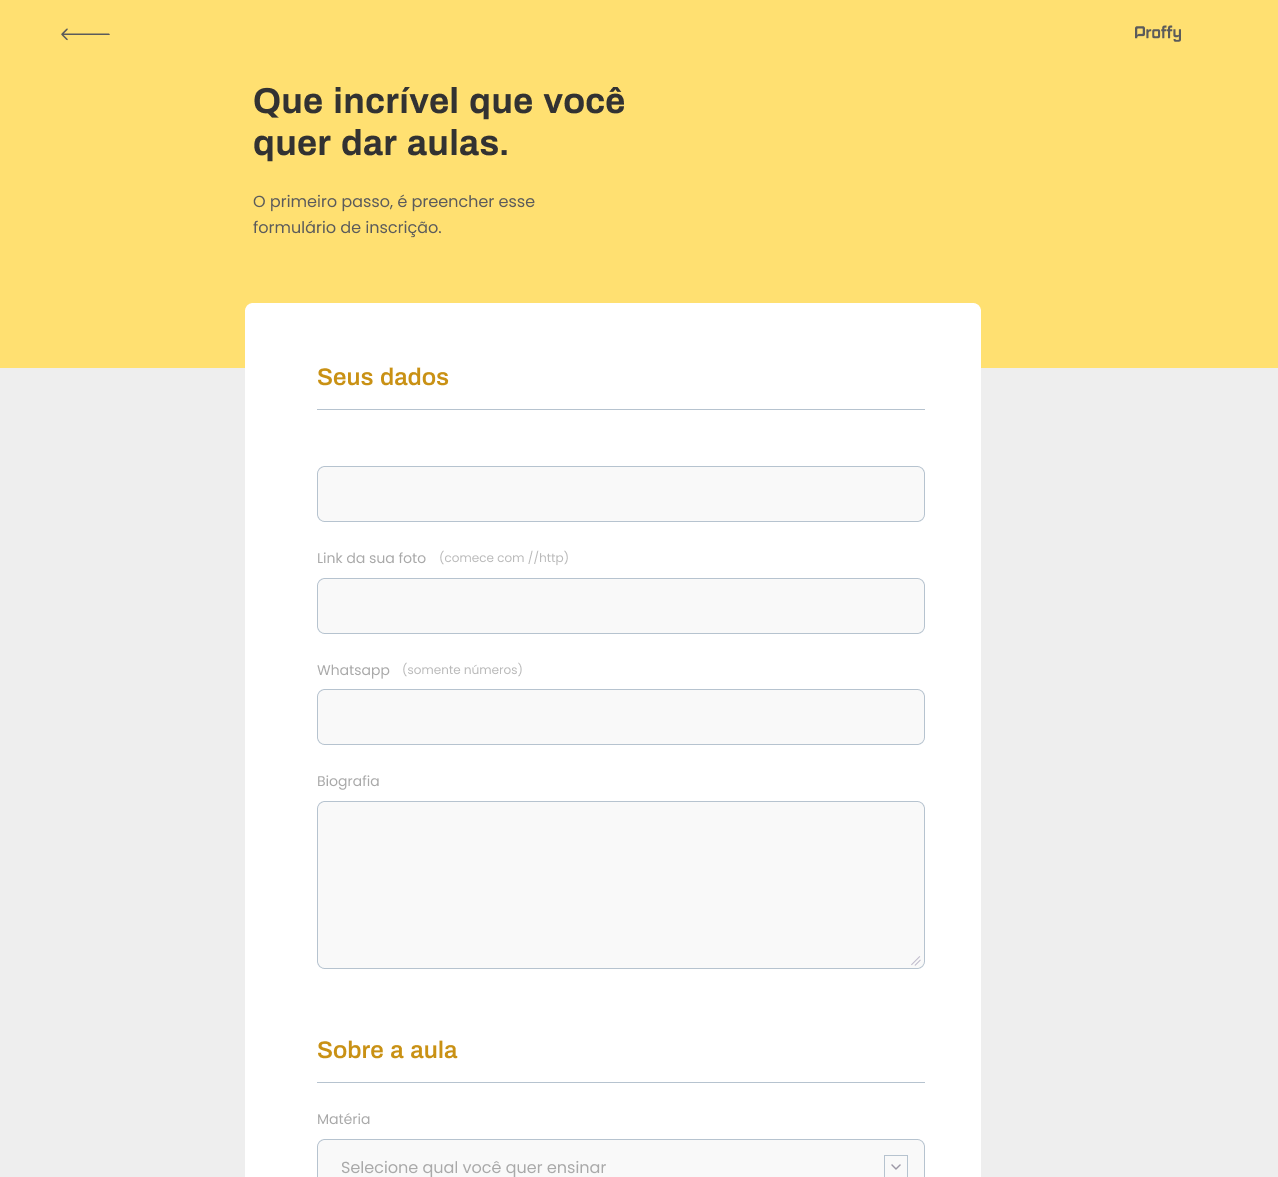
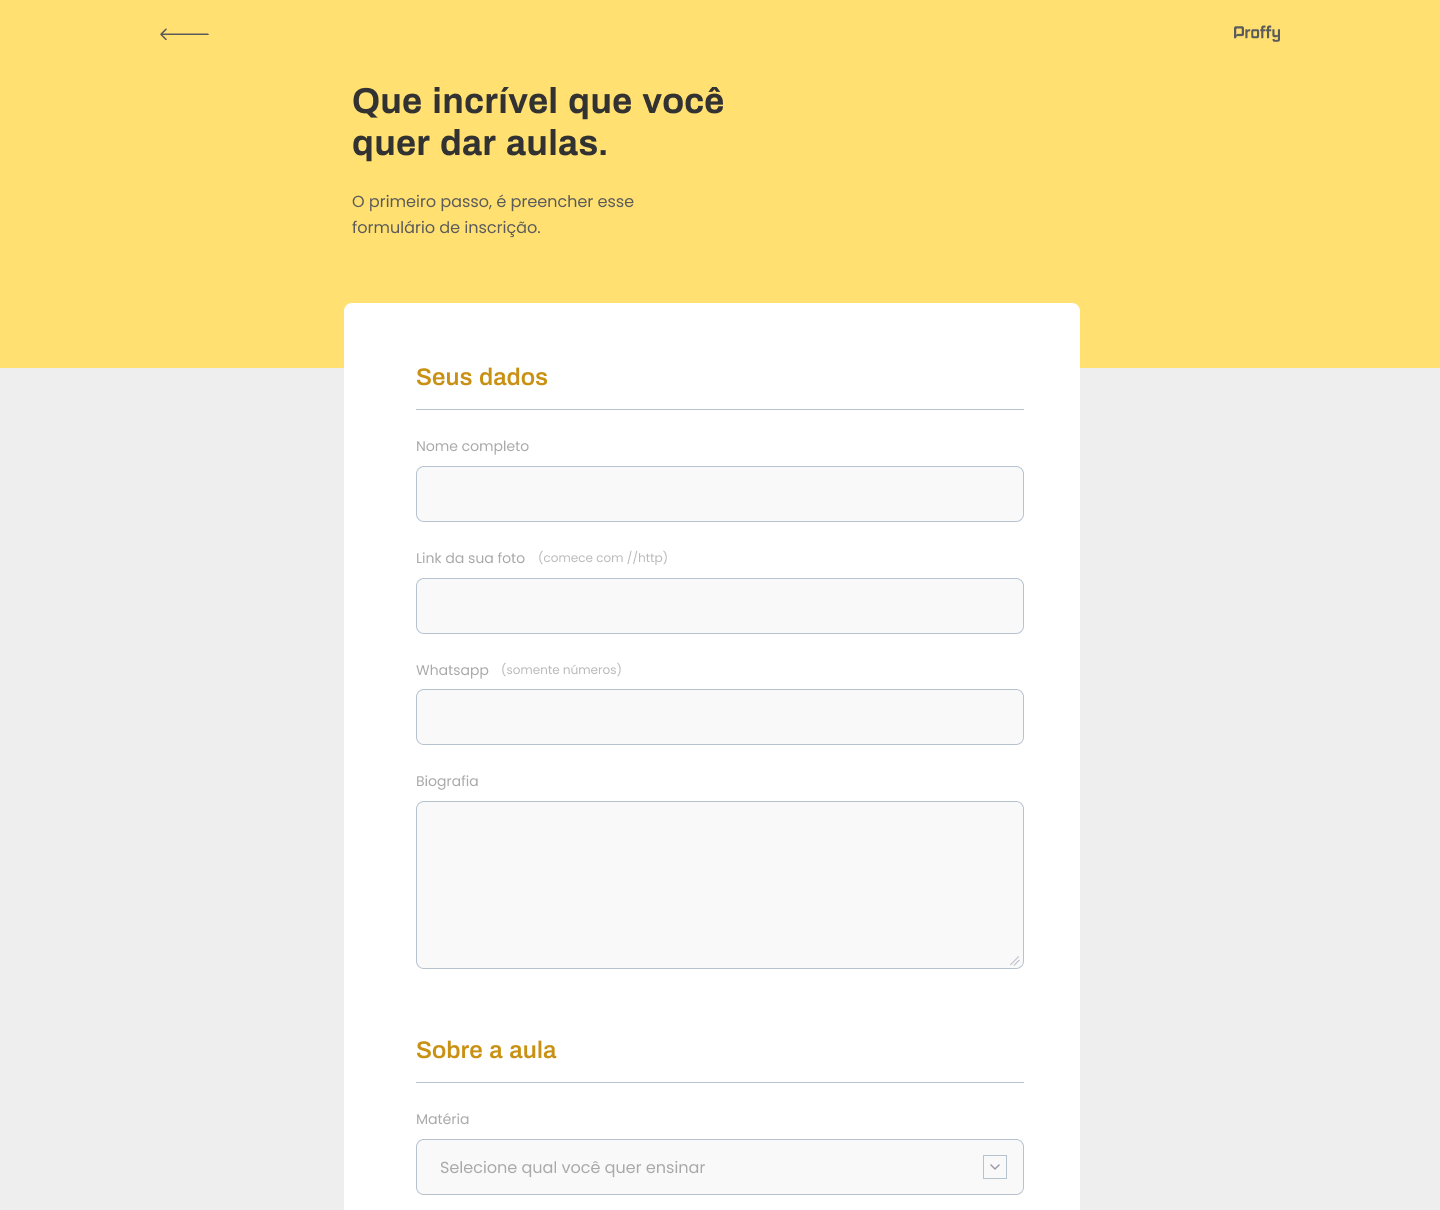
page-landing.css finalizada

diff --git a/styles/partials/page-landing.css b/styles/partials/page-landing.css
@@ -1,0 +1,142 @@
+#page-landing {
+    background: var(--color-base);
+}
+
+#page-landing #container {
+    color: var(--color-secondary-in-primary)
+}
+
+.logo-container img {
+    height: 10rem;
+}
+
+.logo-container {
+    text-align: center;
+    margin-bottom: 3.2rem;
+}
+
+.logo-container h2 {
+    font-weight: 500;
+    font-size: 3.6rem;
+    line-height: 4.6rem;
+    margin-top: 0.8rem;
+}
+
+.hero-image {
+    width: 100%;
+}
+
+.buttons-container {
+    display: flex;
+    justify-content: center;
+    margin: 3.2rem 0;
+}
+
+.buttons-container a {
+    width: 30rem;
+    height: 10.4rem;
+
+    border-radius: 1rem;
+    margin-right: 1.6rem;
+
+    font: 700 2.4rem Archivo;
+    text-decoration: none;
+
+    display: flex;
+    align-items: center;
+    justify-content: center;
+
+}
+
+.buttons-container a img {
+    width: 4rem;
+    margin-right: 2.4rem;
+}
+
+.buttons-container a.study {
+    background: var(--color-primary);
+    color: var(--color-box-base);
+    transition: background 0.3s;
+
+}
+
+.buttons-container a.study:hover {
+    background: var(--color-primary-hover);
+}
+
+.buttons-container .give-classes {
+    background: var(--color-secondary);
+    color: var(--color-base);
+    margin-right: 0;
+
+    transition: background 0.3s;
+}
+
+.buttons-container .give-classes:hover {
+    background: var(--color-secondary-hover);
+}
+
+.total-connections {
+    font-size: 1.rem;
+    color: #FFF2C2;
+
+    display: flex;
+    justify-content: center;
+}
+
+.total-connections img {
+    margin-left: 0.2rem;
+}
+
+@media (max-width: 699px) {
+    :root {
+        font-size: 40%
+    }
+}
+
+@media (min-width: 1100px) {
+    #page-landing #container {
+        max-width: 1100px;
+        display: grid;
+        grid-template-columns: 2fr 1fr 2fr;
+        grid-template-rows: 350px 1fr;
+
+        grid-template-areas: 
+        "proffy image image" 
+        "button button texting";
+        column-gap: 87px;
+        row-gap: 86px;
+    }
+
+    .logo-container {
+        grid-area: proffy;
+        text-align: initial;
+        align-self: center;
+        margin: 0;
+    }
+
+    .logo-container img {
+        height: 100%;
+        height: 127px;
+    }
+
+    .hero-image {
+        grid-area: image;
+        height: 350px;
+    }
+
+    .buttons-container {
+        grid-area: button;
+        justify-content: flex-start;
+        margin: 0;
+    }
+    
+    .total-connections{
+        grid-area: texting;
+        justify-self: end;
+        display: unset;
+        align-self: center;
+    }
+
+
+}

diff --git a/index.html b/index.html
@@ -7,7 +7,9 @@
   <meta name="viewport" content="width=, initial-scale=1.0" />
   <title>Proffy | Sua plataforma de estudos online!</title>
 
-  <link rel="stylesheet" href="style.css" />
+  <link rel="stylesheet" href="styles/main.css" />
+  <link rel="stylesheet" href="styles/partials/page-landing.css">
+
   <link href="https://fonts.googleapis.com/css2?family=Archivo:wght@400;700&amp;family=Poppins:wght@400;600&amp;display=swap" rel="stylesheet">
 
 </head>
@@ -15,16 +17,31 @@
 <body id="page-landing">
 
   <div id="container">
+    <div class="logo-container">
+      <img src="/images/logo.svg" alt="Logo">
+      <h2>Sua plataforma de estudos online!</h2>
+    </div>
 
-    <h1>Proffy</h1>
+    <img class="hero-image" src="/images/landing.svg" alt="Plataforma de estudos">
 
-    <p>
-      <span>aqui: </span>
-      Sua plataforma de estudo online.
+
+    <div class="buttons-container">
+      <a class="study" href="/study.html">
+        <img src="/images/icons/study.svg" alt="Estudar">
+        Estudar
+      </a>
+
+      <a class="give-classes" href="/give-classes.html">
+        <img src="/images/icons/give-classes.svg" alt="Dar Aulas">
+        Dar aulas
+      </a>
+
+    </div>
+
+    <p class="total-connections">
+      Total de 200 conexões já realizadas.
+      <img src="/images/icons/heart.svg" alt="Coração amarelo">
     </p>
-
-    <button>Estudar</button>
-    <button>Dar Aulas</button>
 
   </div>
 

diff --git a/styles/main.css b/styles/main.css
@@ -1,10 +1,13 @@
 :root {
     --color-primary: #00B9E1;
+    --color-primary-hover: #0098C8;
     --color-primary-dark: #011469;
     --color-primary-light: #C7F1FF;
-    --color-secondary: #ffe071;
+    --color-secondary: #FFE071;
+    --color-secondary-hover: #F1CC49;
     --color-secondary-dark: #C99114;
     --color-secondary-complement: #EBCD62;
+    --color-secondary-in-primary: #FFF2C2;
     --color-base: #323232;
     --color-text-base: #5E6E7C;
     --color-background: #EEEEEE;
@@ -38,9 +41,14 @@ body, input, button, textarea {
     font: 500 1.6rem Poppins;
     color: var(--color-text-base)
 }
-
 #container {
     width: 90vw;
     max-width: 700px;
-    border: 1px solid;
 }
+
+@media (min-width: 700px){
+    :root {
+        font-size: 62.5% /* todo 1rem vai ser relativo à 10px */
+    }
+}
+

diff --git a/README.md b/README.md
@@ -24,7 +24,7 @@ Este é um projeto desenvolvido durante a semana Next Level Week, na trilha Boos
   	<img alt="Página Inicial" src="/images/home-proffy.png" width="80%">
 </p>
 
-## <p align="center">Página de Registro</p>
+### <p align="center">Página de Registro</p>
 
 <p align="center" style="display: flex; align-items: flex-start; justify-content: center;">
   	<img alt="Página de cadastro do professor" src="/images/page-form.png" width="80%">
